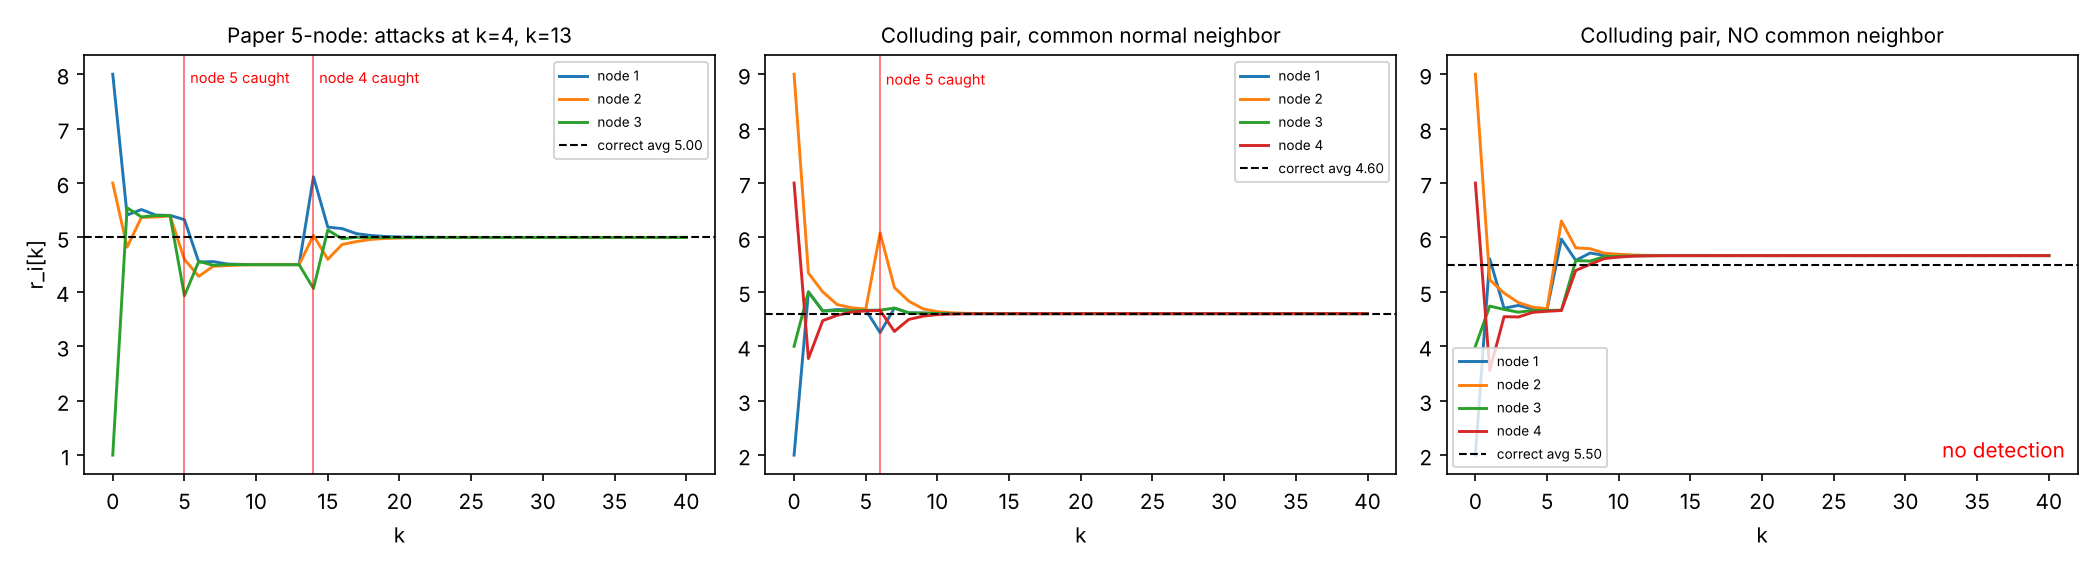
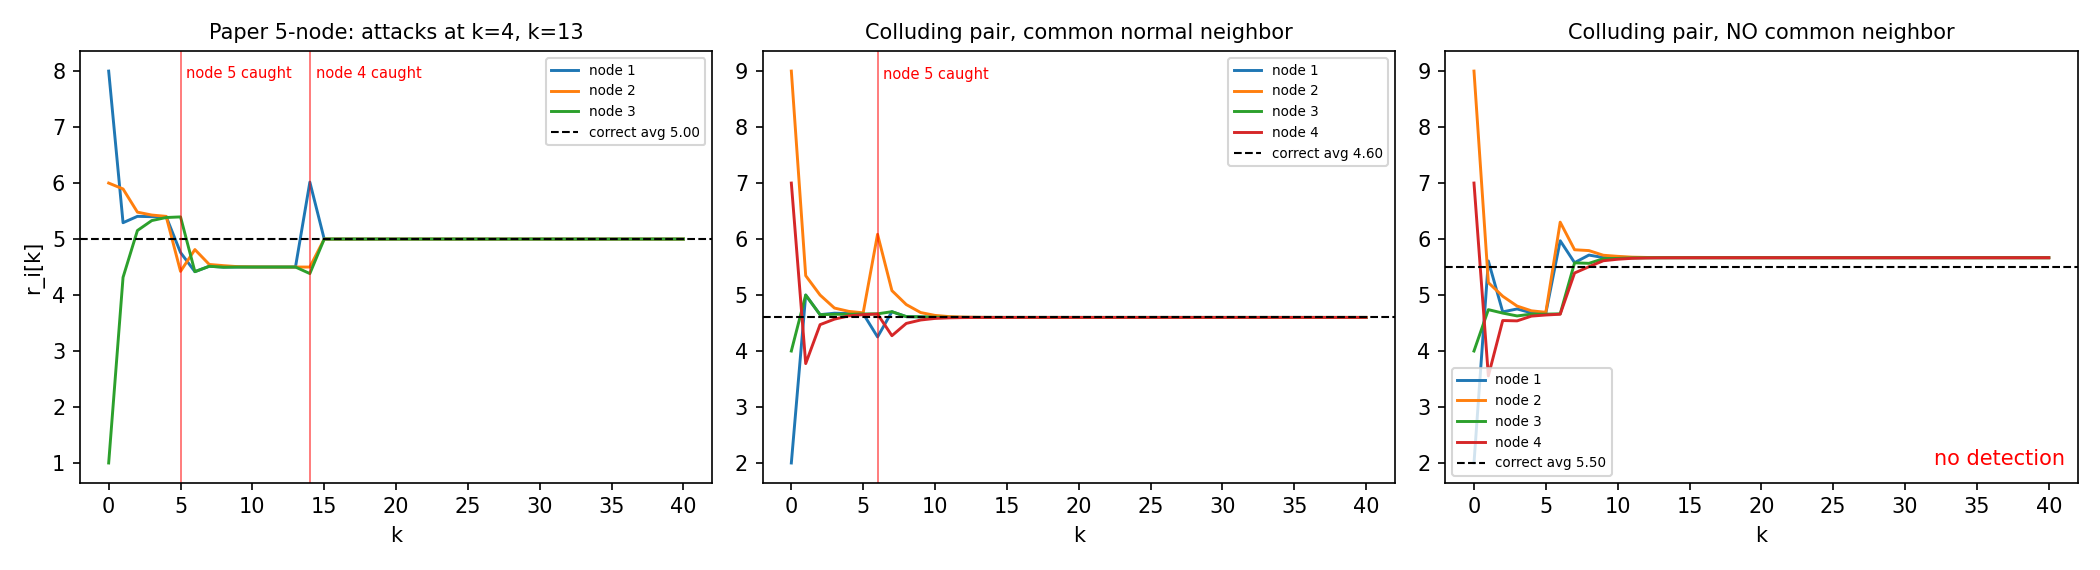
Alg 2 demo: panel 1 uses paper.fig5a(); regenerate demo_alg2.png

Changed region(s): [[0.0, 0.0298, 0.9905, 0.8947], [0.3405, 0.686, 0.3714, 0.7456], [0.1857, 0.9246, 0.2167, 0.9544]]

diff --git a/run_demo_alg2.py b/run_demo_alg2.py
@@ -7,14 +7,14 @@ matplotlib.use("Agg")
 import matplotlib.pyplot as plt
 
 from rac_sim import undirected, simulate, Algorithm2, Offset, TamperInbox
+from rac_sim import paper
 
-E5 = [(u, v) for u in range(1, 6) for v in range(u + 1, 6) if (u, v) != (1, 2)]
 BASE = [(0, 1), (1, 2), (2, 3), (3, 0), (0, 2), (4, 0), (4, 1), (5, 2), (5, 3), (4, 5)]
 X6 = [2, 9, 4, 7, 5, 1]
 collude = lambda: {4: TamperInbox(at=5, src=5, dy=6.0), 5: Offset(at=10**9)}
 
 cases = [
-    ("Paper 5-node: attacks at k=4, k=13", undirected(5, E5, one_indexed=True), [8, 6, 1, 3, 9],
+    ("Paper 5-node: attacks at k=4, k=13", paper.fig5a(), [8, 6, 1, 3, 9],
      {4: Offset(at=4, dy=5.0), 3: Offset(at=13, dy=-3.0)}, 5.0),
     ("Colluding pair, common normal neighbor", undirected(6, BASE + [(0, 5)]), X6, collude(), 23 / 5),
     ("Colluding pair, NO common neighbor", undirected(6, BASE), X6, collude(), 22 / 4),
